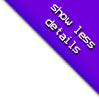
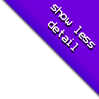
Minor fixes, including replacing the detail corner buttons

Changed region(s): [[0.0, 0.0, 1.0, 1.0], [0.4545, 0.1818, 0.8182, 0.5758]]

diff --git a/public/js/script.js b/public/js/script.js
@@ -43,6 +43,9 @@ var VIEW = new function() {
 
   // Do any UI initialization work
   me.init = function(field_change_callback) {
+    $(window).resize(function(){
+      scale_font_size();
+    });
     initialize_background();
     scale_font_size();
     initialize_receipt_ui();
@@ -219,19 +222,17 @@ var VIEW = new function() {
   };
 
   var scale_font_size = function() {
-    $(window).resize(function(){
-      var width = $(window).width();
-      var height = $(window).height();
-      //For the right side, it is only based on width
-      $("#receipt_container").css({"font-size":(width/50) + "px"});
-      //For the left side, it is based on width unless the width is more than 75%
-      //bigger than the height
-      if ((height * 1.75) < width) {
-        $("#questions").css({"font-size":(height/30) + "px"});
-      } else {
-        $("#questions").css({"font-size":(width/50) + "px"});
-      }
-    });
+    var width = $(window).width();
+    var height = $(window).height();
+    //For the right side, it is only based on width (because it can scroll vertically)
+    $("#receipt_container").css({"font-size":(width/50) + "px"});
+    //For the left side, it is based on width unless the width is more than 65%
+    //bigger than the height
+    if ((height * 1.65) < width) {
+      $("#questions").css({"font-size":(height/30) + "px"});
+    } else {
+      $("#questions").css({"font-size":(width/45) + "px"});
+    }
   };
 
 };

diff --git a/public/css/style.css b/public/css/style.css
@@ -80,6 +80,7 @@ input[type='text']:hover
   font-size:110%;
 }
 #perspective {
+  margin-top:5%;
   /* width:55%; */
   /* height:270px; */
   /* position:fixed; */
@@ -102,8 +103,9 @@ input[type='text']:hover
     cursor: pointer;
     float: left; 
     height:58px; 
-    margin: 5px 5px 0 0;
-    width: 113px;
+    margin: 2% 1%;
+    /* width: 113px; */
+    width:22%;
     filter: alpha(opacity=40);
     -khtml-opacity: 0.40;
     -moz-opacity: 0.40;
@@ -256,13 +258,13 @@ input[type='text']:hover
 {
     background-color: #420083;
     color: #FFF;
-    font-size: 8px;
+    font-size: 9px;
     font-family: Verdana;
-    line-height: 15px;
-    filter: alpha(opacity=98);
-    -khtml-opacity: 0.98;
-    -moz-opacity: 0.98;
-    opacity: 0.98;
+    line-height: 17px;
+    filter: alpha(opacity=80);
+    -khtml-opacity: 0.80;
+    -moz-opacity: 0.80;
+    opacity: 0.80;
     padding: 0 10px;
     position: fixed;
     left: 0;
